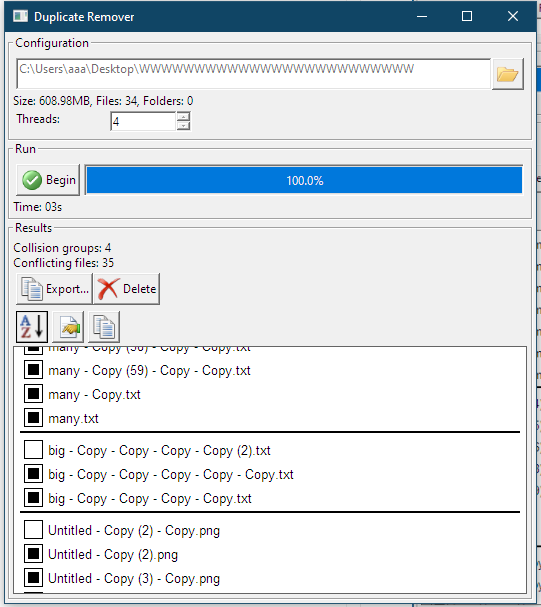
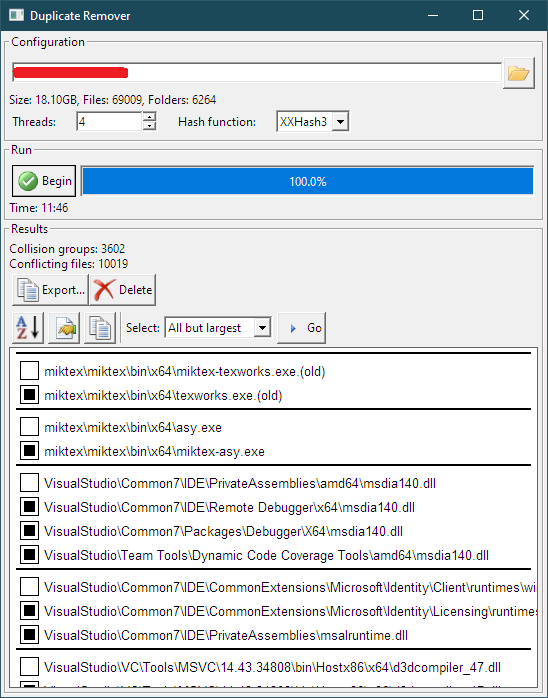
docs: Update README

diff --git a/README.md b/README.md
@@ -1,4 +1,5 @@
-# Duplicate Remover - GUI and CLI tool for removing duplicate files
+# Duplicate Remover
+GUI and CLI tool for removing duplicate files
 
 
 <img src="./docs/screenshot_01.png">
@@ -11,7 +12,7 @@ Find and remove duplicate files
 Duplicate remover scans a directory for identical files based
 on their hash. You must either pass export or removal arguments.
 Both work on selected files which are a subset of duplicates
-chosen through the selection strategy (--select).
+chosen through the selection strategy (--select). 
 Depending on the export type, you may pass additional settings,
 like --export-json-quick-include which is supported by the JSON
 exporter.
@@ -34,22 +35,30 @@ Options
                                        Supported values: JSON, JSON Simple, XML, CSV
          --export-json-quick-include   (JSON export) Explicitly add list of files from each group
                                        Supported values: none, largest, smallest, except-largest, except-smallest
+         --hashfunc                    Hash function to use
+                                       Supported values: xxhash32, sha256, sha1, md5
 ```
 
 ## Features
 
+- Written in D for maximum efficiency
 - Extremely fast scanning through use of parallelism and scheduling algorithms
 - Fast file hashing using xxhash and pre-hashing mechanisms
-- Efficient and native GUI powered by the [IUP](https://www.tecgraf.puc-rio.br/iup/en/) library
+- Supports different hashing functions ([XXhash](https://github.com/Cyan4973/xxHash), SHA256, SHA1, MD5)
+- Lighweight, efficient and native GUI powered by the [IUP](https://www.tecgraf.puc-rio.br/iup/en/) library
+- Easy to use CLI
 - Easily mark files for deletion
 - Delete files quickly (permanently or moving them to Trash)
 - Export scanning results to JSON
 
 ## Download
 
-Download duplicate-remover [here](https://github.com/magley/duplicate-remover/releases).
+Download pre-built binaries for x64 Windows and Linux [here](https://github.com/magley/duplicate-remover/releases).
 
-## Build
+## Getting Started
+
+You can also build Duplicate Remover yourself.
+Duplicate Remover is written in D and requires the DMD compiler (LDC and GDC not tested).
 
 See [BUILDING.md](./BUILDING.md) for build instructions.
 
